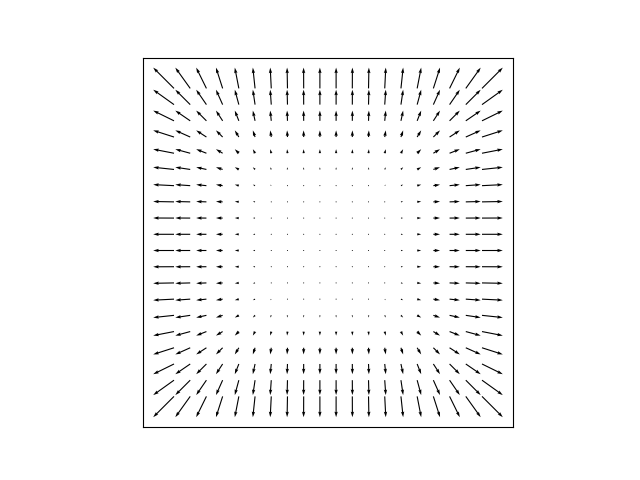
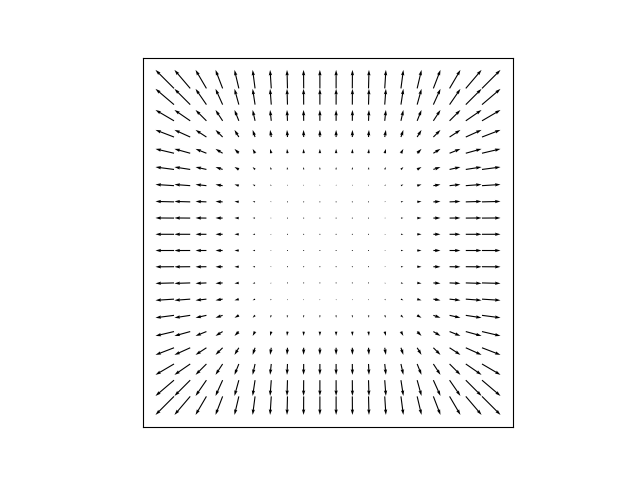
-

diff --git a/calc_multi/calc_multi_70_div_curl_lap/calc_multi_70_div_curl_lap.html b/calc_multi/calc_multi_70_div_curl_lap/calc_multi_70_div_curl_lap.html
@@ -83,12 +83,12 @@ plt.savefig('calc_multi_70_div_curl_lap_03.png')
 </code></pre>
 
 <p><img alt="" src="calc_multi_70_div_curl_lap_03.png" /></p>
-<p>Üstte analitik sonucu grafikledik. Gradyani pur sayısal olarak
+<p>Üstte analitik sonucu grafikledik. Gradyanı pür sayısal olarak
 hesaplayabilirdik, bu fonksiyon yaklaşık türev hesabını üç boyut için yapıyor,
 <code>gradient</code> çağrısını kullanıyoruz, </p>
 <pre><code class="python">uu,vv = np.gradient(U)
 fig, ax = plt.subplots()
-ax.quiver(x,y,u,v)
+ax.quiver(x,y,vv,uu)
 ax.xaxis.set_ticks([])
 ax.yaxis.set_ticks([])
 ax.axis([-6, 6, -6, 6])

diff --git a/calc_multi/calc_multi_70_div_curl_lap/div_curl_laplasyan__laplacian_.html b/calc_multi/calc_multi_70_div_curl_lap/div_curl_laplasyan__laplacian_.html
@@ -83,12 +83,12 @@ plt.savefig('calc_multi_70_div_curl_lap_03.png')
 </code></pre>
 
 <p><img alt="" src="calc_multi_70_div_curl_lap_03.png" /></p>
-<p>Üstte analitik sonucu grafikledik. Gradyani pur sayısal olarak
+<p>Üstte analitik sonucu grafikledik. Gradyanı pür sayısal olarak
 hesaplayabilirdik, bu fonksiyon yaklaşık türev hesabını üç boyut için yapıyor,
 <code>gradient</code> çağrısını kullanıyoruz, </p>
 <pre><code class="python">uu,vv = np.gradient(U)
 fig, ax = plt.subplots()
-ax.quiver(x,y,u,v)
+ax.quiver(x,y,vv,uu)
 ax.xaxis.set_ticks([])
 ax.yaxis.set_ticks([])
 ax.axis([-6, 6, -6, 6])
